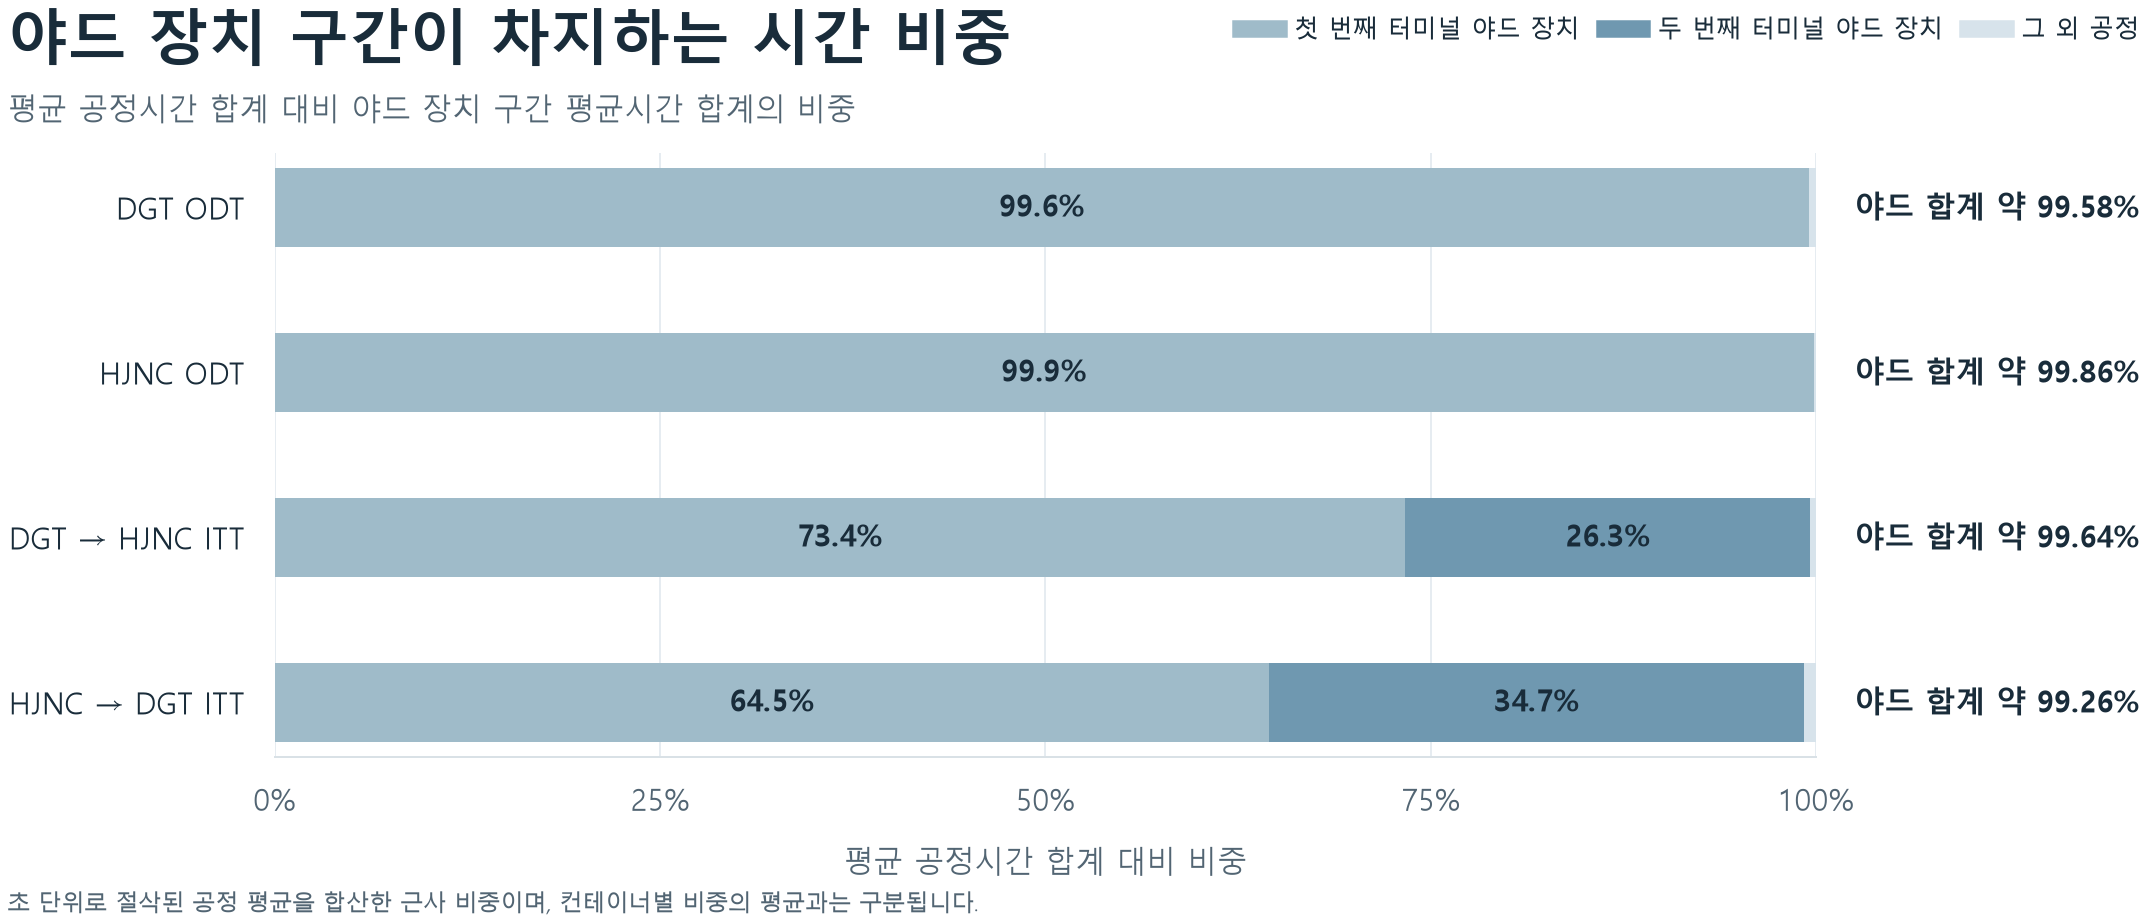
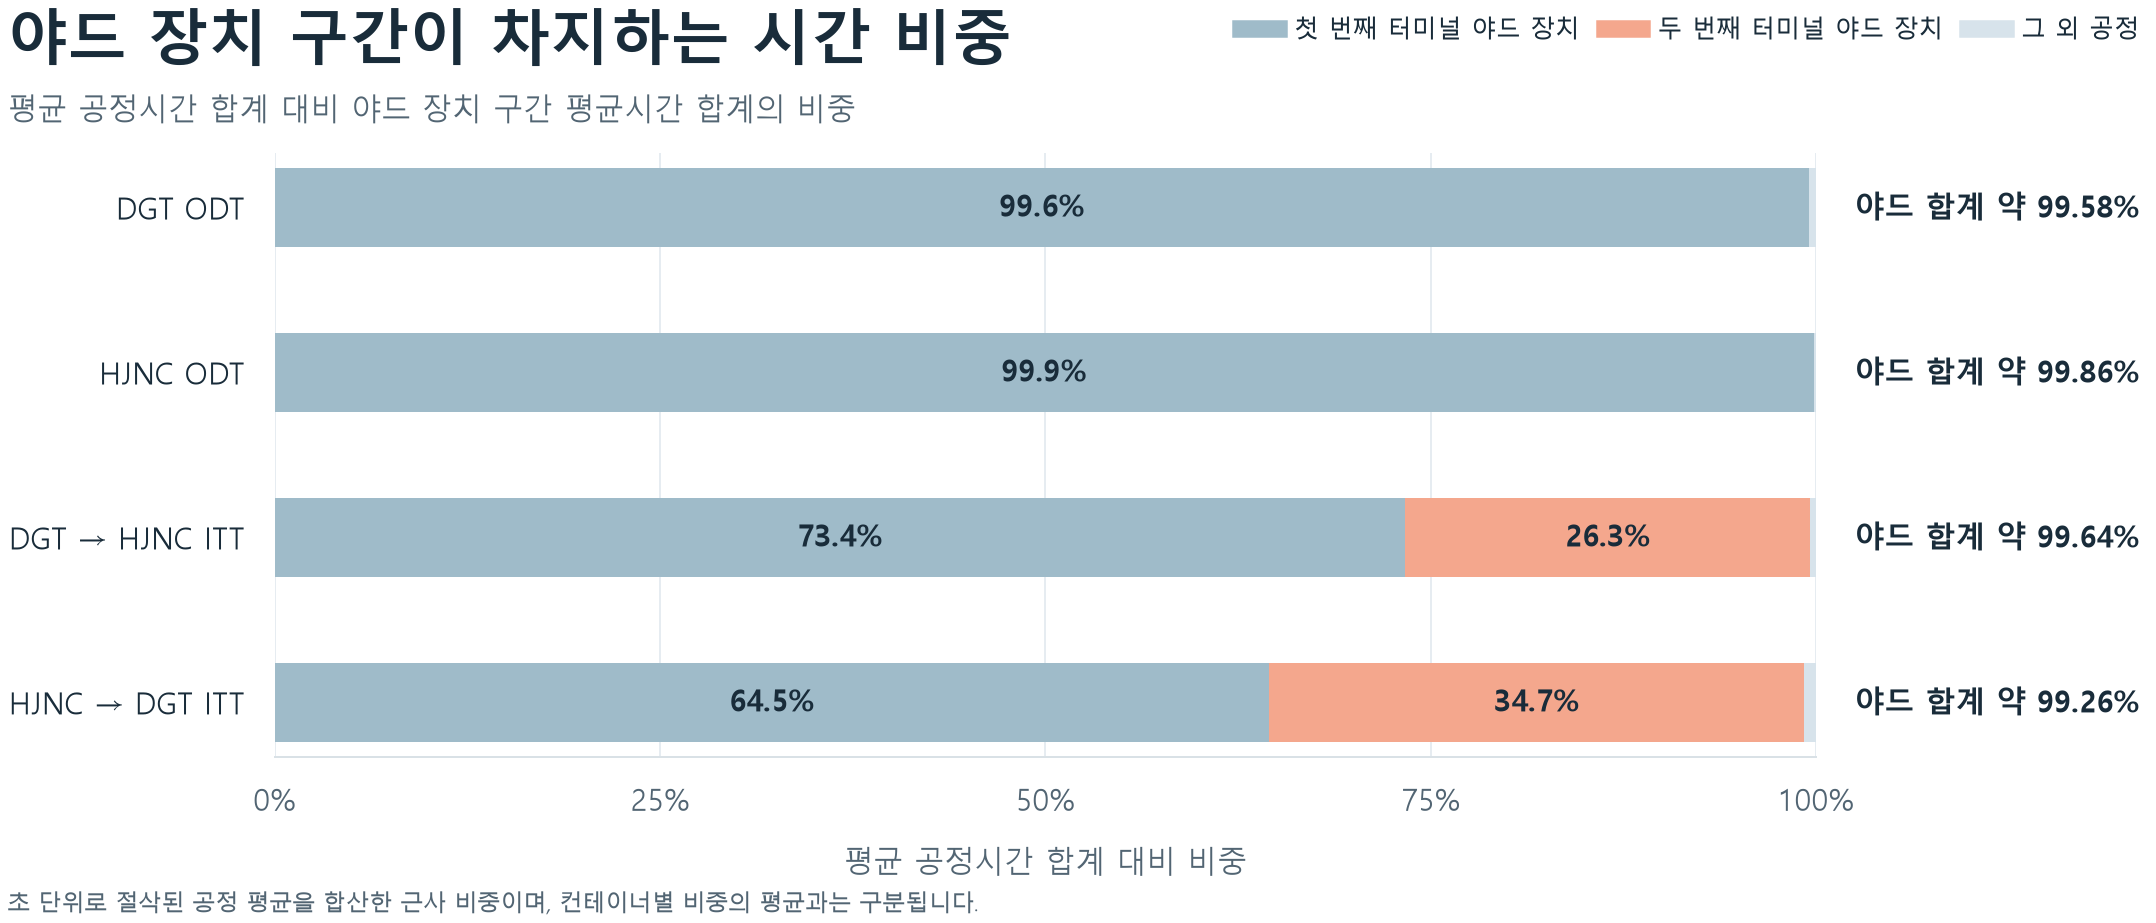
Restore coral chart comparisons alongside light blues

Changed region(s): [[0.5904, 0.6977, 0.8391, 0.8191], [0.6526, 0.5157, 0.8391, 0.6371], [0.7458, 0.0, 0.7769, 0.0607]]

diff --git a/prototype-streamlit/styles.css b/prototype-streamlit/styles.css
@@ -154,7 +154,7 @@ header[data-testid="stHeader"] [data-testid="stExpandSidebarButton"]:hover {
 .kpi-card p { min-height:20px; margin:0 0 14px; color:#192C3A; font-size:12px; }
 .kpi-card i { display:block; width:70%; height:5px; background:#192C3A; }
 
-.donut { display:grid; width:min(200px,80%); aspect-ratio:1; place-items:center; margin:20px auto; border-radius:50%; background:conic-gradient(#9FBBC9 0 46%,#6F98B0 46% 75%,#1F4E68 75% 92%,#D7E3EB 92%); }
+.donut { display:grid; width:min(200px,80%); aspect-ratio:1; place-items:center; margin:20px auto; border-radius:50%; background:conic-gradient(#9FBBC9 0 46%,#F4A78D 46% 75%,#1F4E68 75% 92%,#D7E3EB 92%); }
 .donut>span { display:grid; width:63%; aspect-ratio:1; align-content:center; border-radius:50%; background:#FFFFFF; text-align:center; }
 .donut strong { color:#192C3A; font-size:24px; }
 .donut small { color:var(--soft); font-size:11px; }

diff --git a/prototype-streamlit/improvement_content/presentation.css b/prototype-streamlit/improvement_content/presentation.css
@@ -27,7 +27,7 @@
 .presentation-content .bn{width:92px;color:var(--sub);flex-shrink:0}
 .presentation-content .track{flex:1;height:14px;background:#F2F5F7;border-radius:4px;overflow:hidden}
 .presentation-content .bar{display:block;height:100%;background:#9FBBC9;border-radius:4px}
-.presentation-content .bar.hi{background:#6F98B0}
+.presentation-content .bar.hi{background:#F4A78D}
 .presentation-content .bv{width:70px;text-align:right;font-weight:500;flex-shrink:0}
 .presentation-content .take{margin-top:18px;padding:14px 18px;border-left:3px solid #192C3A;background:var(--card);border-radius:0;font-size:15px}
 .presentation-content ul.lim{margin:0;padding-left:18px;font-size:14px;color:var(--sub)}

diff --git a/prototype-streamlit/app_revised.py b/prototype-streamlit/app_revised.py
@@ -19,7 +19,7 @@ from improvement_content import views as improvement_views
 ROOT = Path(__file__).parent
 TERMINALS = (
     ("PNC", 198_000, 84, 31.8, 67.0, "#9FBBC9"),
-    ("PNIT", 174_000, 76, 29.4, 62.0, "#6F98B0"),
+    ("PNIT", 174_000, 76, 29.4, 62.0, "#F4A78D"),
     ("HJNC", 163_000, 71, 28.8, 59.0, "#1F4E68"),
     ("HPNT", 149_000, 66, 27.9, 64.0, "#C6D8E3"),
     ("BNCT", 139_000, 61, 27.1, 57.0, "#7FA6BB"),
@@ -118,10 +118,10 @@ def dashboard() -> None:
         html(f'<div class="panel-head"><span>THROUGHPUT TREND</span><h2>월별 물동량 추이</h2>'
              f'<p><strong>{state["volume"]:,} TEU</strong>　선택 기간 누적 물동량</p></div>')
         chart = pd.DataFrame({"월": state["months"], "선택 기간": state["current"], "이전 기간": state["previous"]})
-        st.line_chart(chart, x="월", y=["선택 기간", "이전 기간"], color=["#6F98B0", "#C6D8E3"], height=300)
+        st.line_chart(chart, x="월", y=["선택 기간", "이전 기간"], color=["#6F98B0", "#F4A78D"], height=300)
     with right, st.container(key="status_panel"):
         html('<div class="panel-head"><span>YARD STATUS</span><h2>작업 상태 분포</h2><p>샘플 기준</p></div>')
-        status = [("완료", 46, "#9FBBC9"), ("작업 중", 29, "#6F98B0"),
+        status = [("완료", 46, "#9FBBC9"), ("작업 중", 29, "#F4A78D"),
                   ("대기", 17, "#1F4E68"), ("점검", 8, "#D7E3EB")]
         legend = "".join(f'<div><i style="background:{color}"></i><span>{name}</span><strong>{share}%</strong></div>'
                          for name, share, color in status)

diff --git a/prototype-streamlit/output/preliminary-analysis-20261109/build_figures.py b/prototype-streamlit/output/preliminary-analysis-20261109/build_figures.py
@@ -35,7 +35,7 @@ plt.rcParams.update({
 })
 
 BLUE = "#9FBBC9"
-TEAL = "#6F98B0"
+TEAL = "#F4A78D"
 INK = "#192C3A"
 MUTED = "#526573"
 OTHER = "#D7E3EB"

diff --git a/prototype-streamlit/README.md b/prototype-streamlit/README.md
@@ -41,9 +41,9 @@ prototype-streamlit/
 
 ## 화면과 데이터
 
-화면 기본 색은 네이비 `#192C3A`와 흰색 `#FFFFFF`입니다. 메뉴·제목·버튼은 네이비, 배경·카드는 흰색으로 구성합니다. 그래프는 첨부 블루 팔레트의 밝은 블루 `#9FBBC9`를 기본으로, 중간 톤 `#6F98B0`과 딥 블루 `#1F4E68` 및 밝은 파생 색을 비교·강조 색으로 사용합니다. 프로젝트 소개의 현황 분석 그래프도 같은 팔레트로 다시 그렸으며, 공정별 평균 소요시간은 야드 체류(일)와 나머지 공정(분)을 분리한 가로 막대로 표시합니다. 다른 분석 페이지의 기존 이미지 색상은 원본을 유지합니다.
+화면 기본 색은 네이비 `#192C3A`와 흰색 `#FFFFFF`입니다. 메뉴·제목·버튼은 네이비, 배경·카드는 흰색으로 구성합니다. 그래프는 밝은 블루 `#9FBBC9`를 기본으로, 코랄 `#F4A78D`를 비교·강조 색으로 사용합니다. 중간 톤 블루 `#6F98B0`와 밝은 파생 색을 보조 색으로 사용합니다. 프로젝트 소개의 현황 분석 그래프도 같은 팔레트로 다시 그렸으며, 공정별 평균 소요시간은 야드 체류(일)와 나머지 공정(분)을 분리한 가로 막대로 표시합니다. 다른 분석 페이지의 기존 이미지 색상은 원본을 유지합니다.
 
-그래프의 넓은 막대는 밝은 블루, 선과 강조 항목은 중간 톤 블루를 사용합니다. 밝은 막대 위 수치에는 짙은 글자색을 사용합니다. 문제제기의 ODT·ITT 공정은 선박·크레인·야드·트럭 아이콘으로 표시하며, ITT의 추가 이동과 도착 부두를 코랄 계열로 구분합니다.
+그래프의 넓은 막대는 밝은 블루, 선은 중간 톤 블루, 강조 항목은 코랄를 사용합니다. 밝은 막대 위 수치에는 짙은 글자색을 사용합니다. 문제제기의 ODT·ITT 공정은 선박·크레인·야드·트럭 아이콘으로 표시하며, ITT의 추가 이동과 도착 부두를 코랄 계열로 구분합니다.
 
 - 개선안(`/improvement`): 첨부 발표 자료의 선석 공유 제안을 표시합니다.
 - 시뮬레이션(`/intro-solution`): 검증 과정과 조건을 표시합니다.

diff --git a/prototype-streamlit/improvement_content/README.md b/prototype-streamlit/improvement_content/README.md
@@ -2,7 +2,7 @@
 
 ## 현재 화면: 첨부 발표 자료 반영
 
-`port-analytics-improvement.zip`의 개선안 관련 내용만 반영했습니다. ZIP의 전체 앱·홈·분석·공통 스타일은 가져오지 않았습니다. 현재 `views.py`는 `assets/presentation.html`의 네 영역과 `presentation.css`를 사용하며, 화면은 네이비·화이트을 기본으로 하고 그래프에는 밝은 블루와 중간 톤 블루를 사용합니다.
+`port-analytics-improvement.zip`의 개선안 관련 내용만 반영했습니다. ZIP의 전체 앱·홈·분석·공통 스타일은 가져오지 않았습니다. 현재 `views.py`는 `assets/presentation.html`의 네 영역과 `presentation.css`를 사용하며, 화면은 네이비·화이트을 기본으로 하고 그래프에는 밝은 블루를 기본으로, 코랄을 강조 색으로 사용합니다.
 
 | 실제 페이지 | 화면 영역 |
 |---|---|
